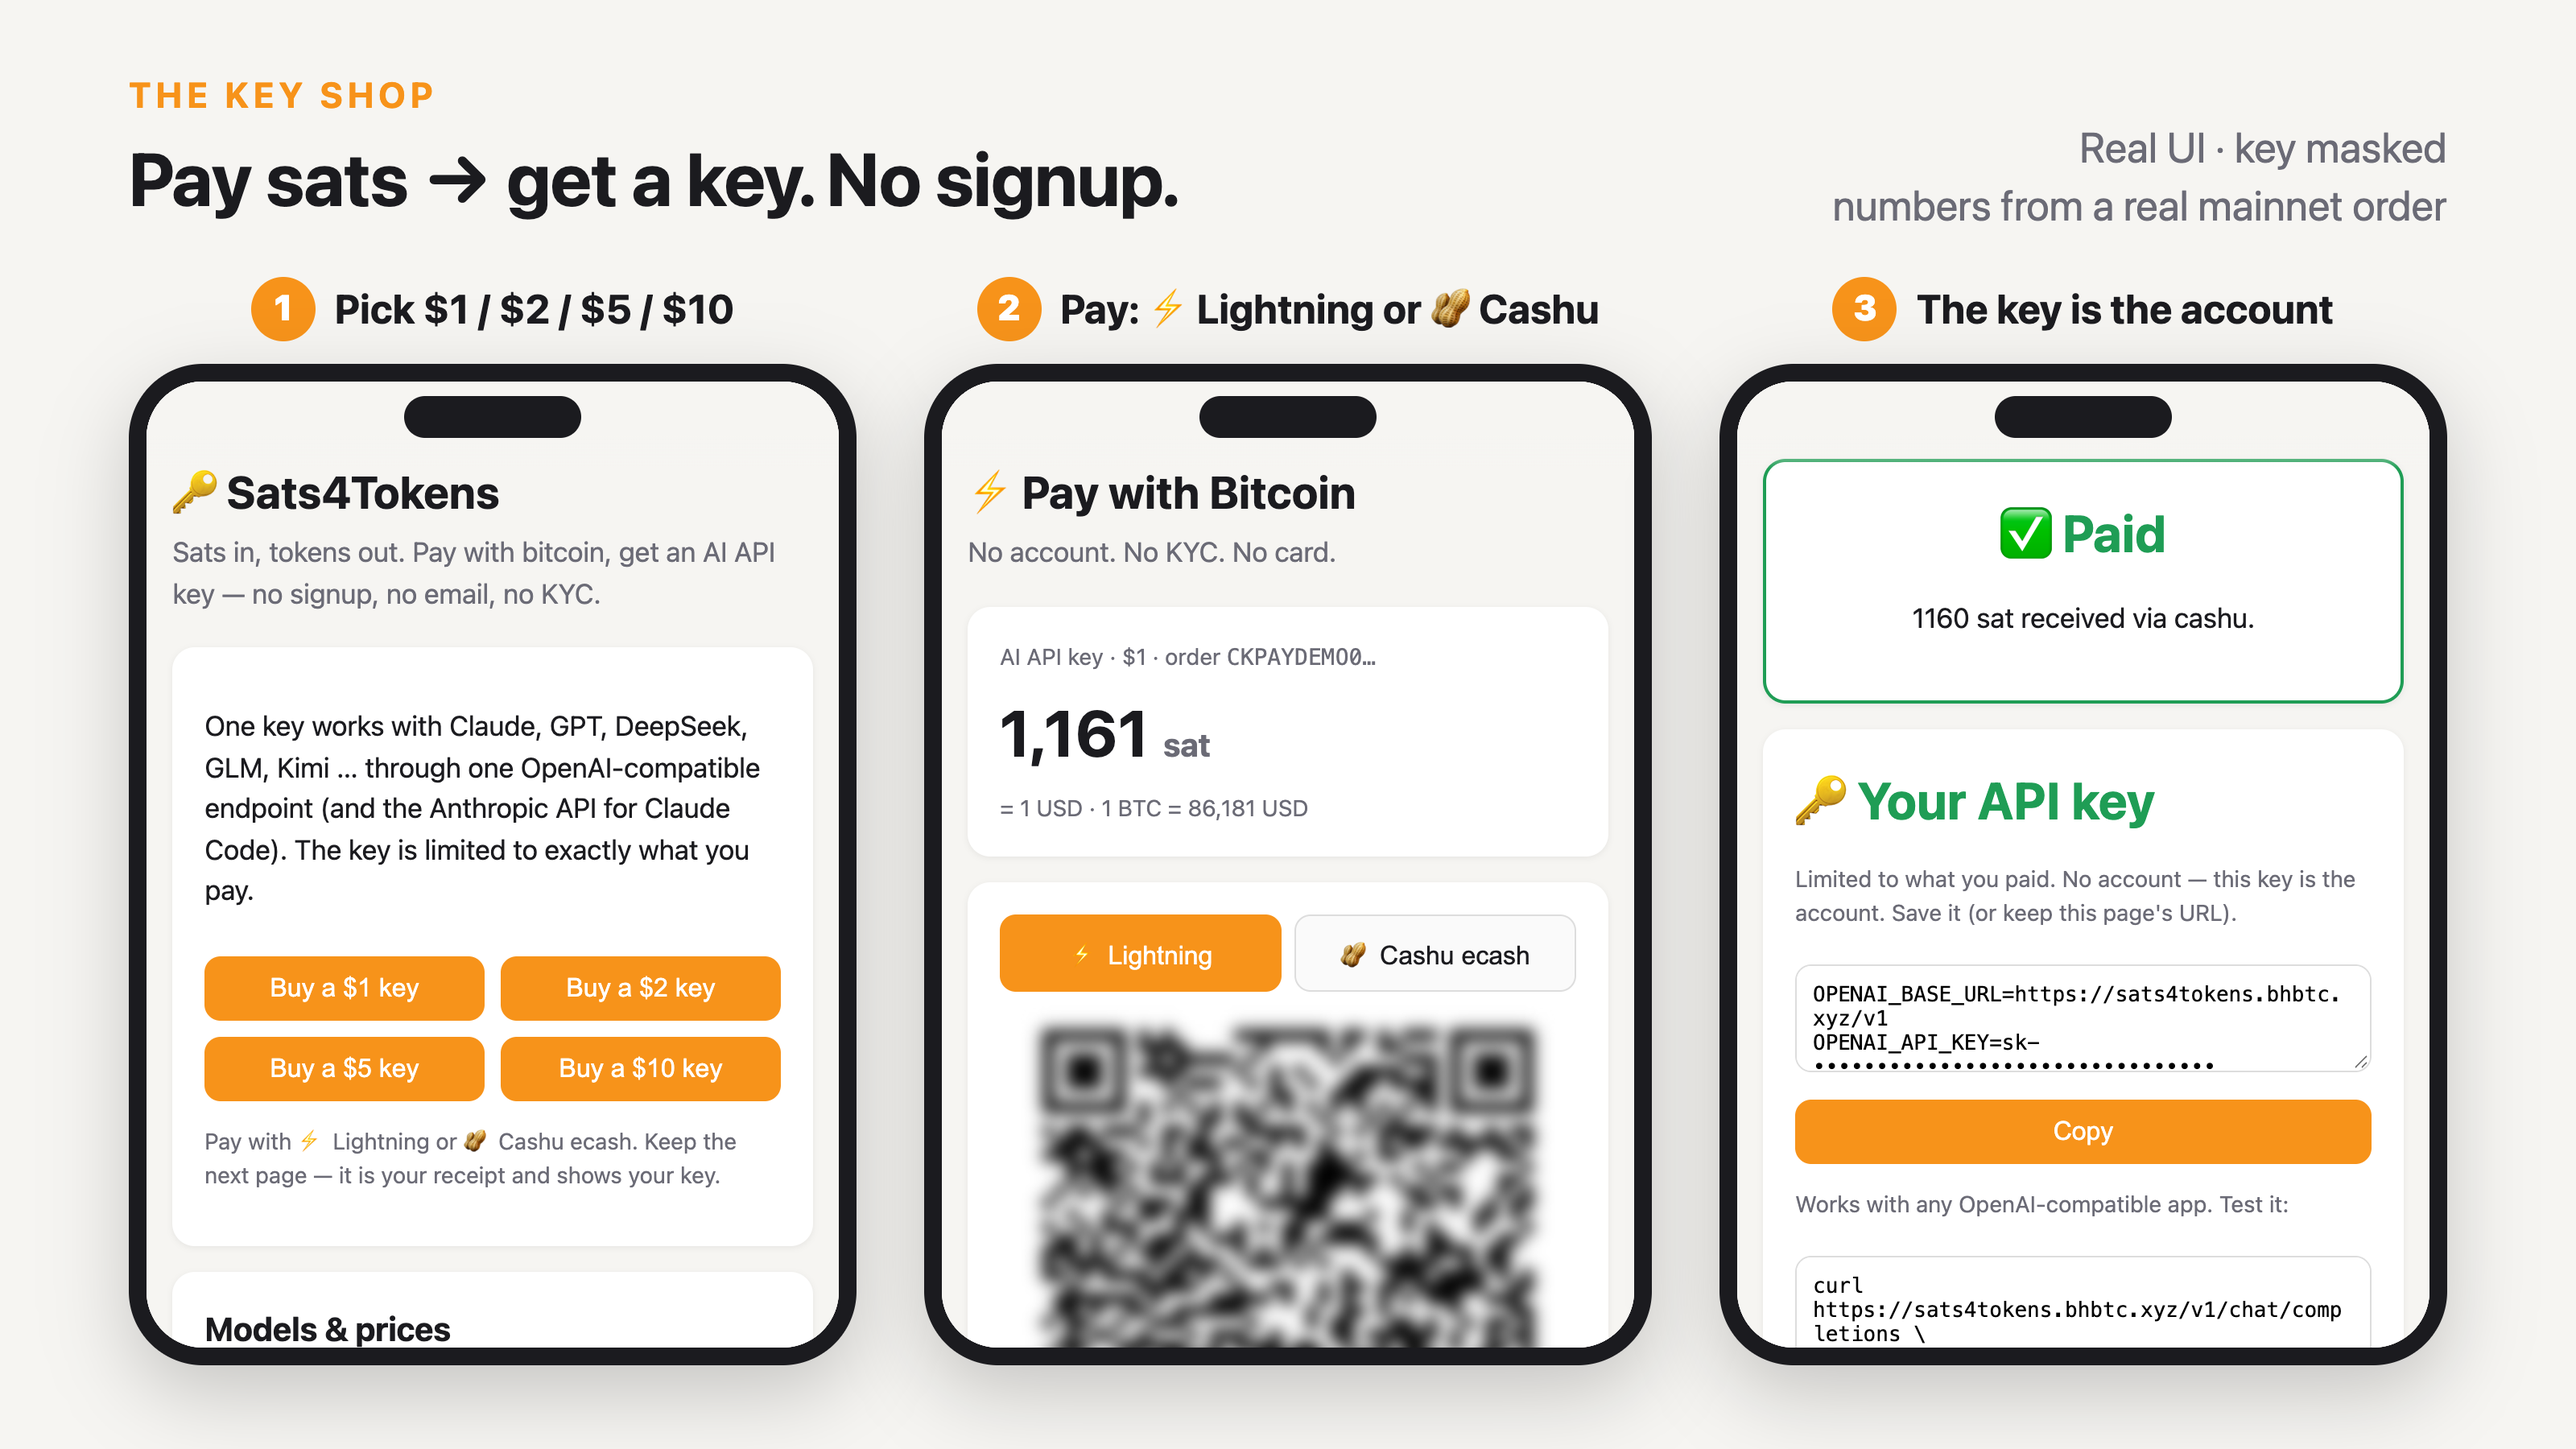
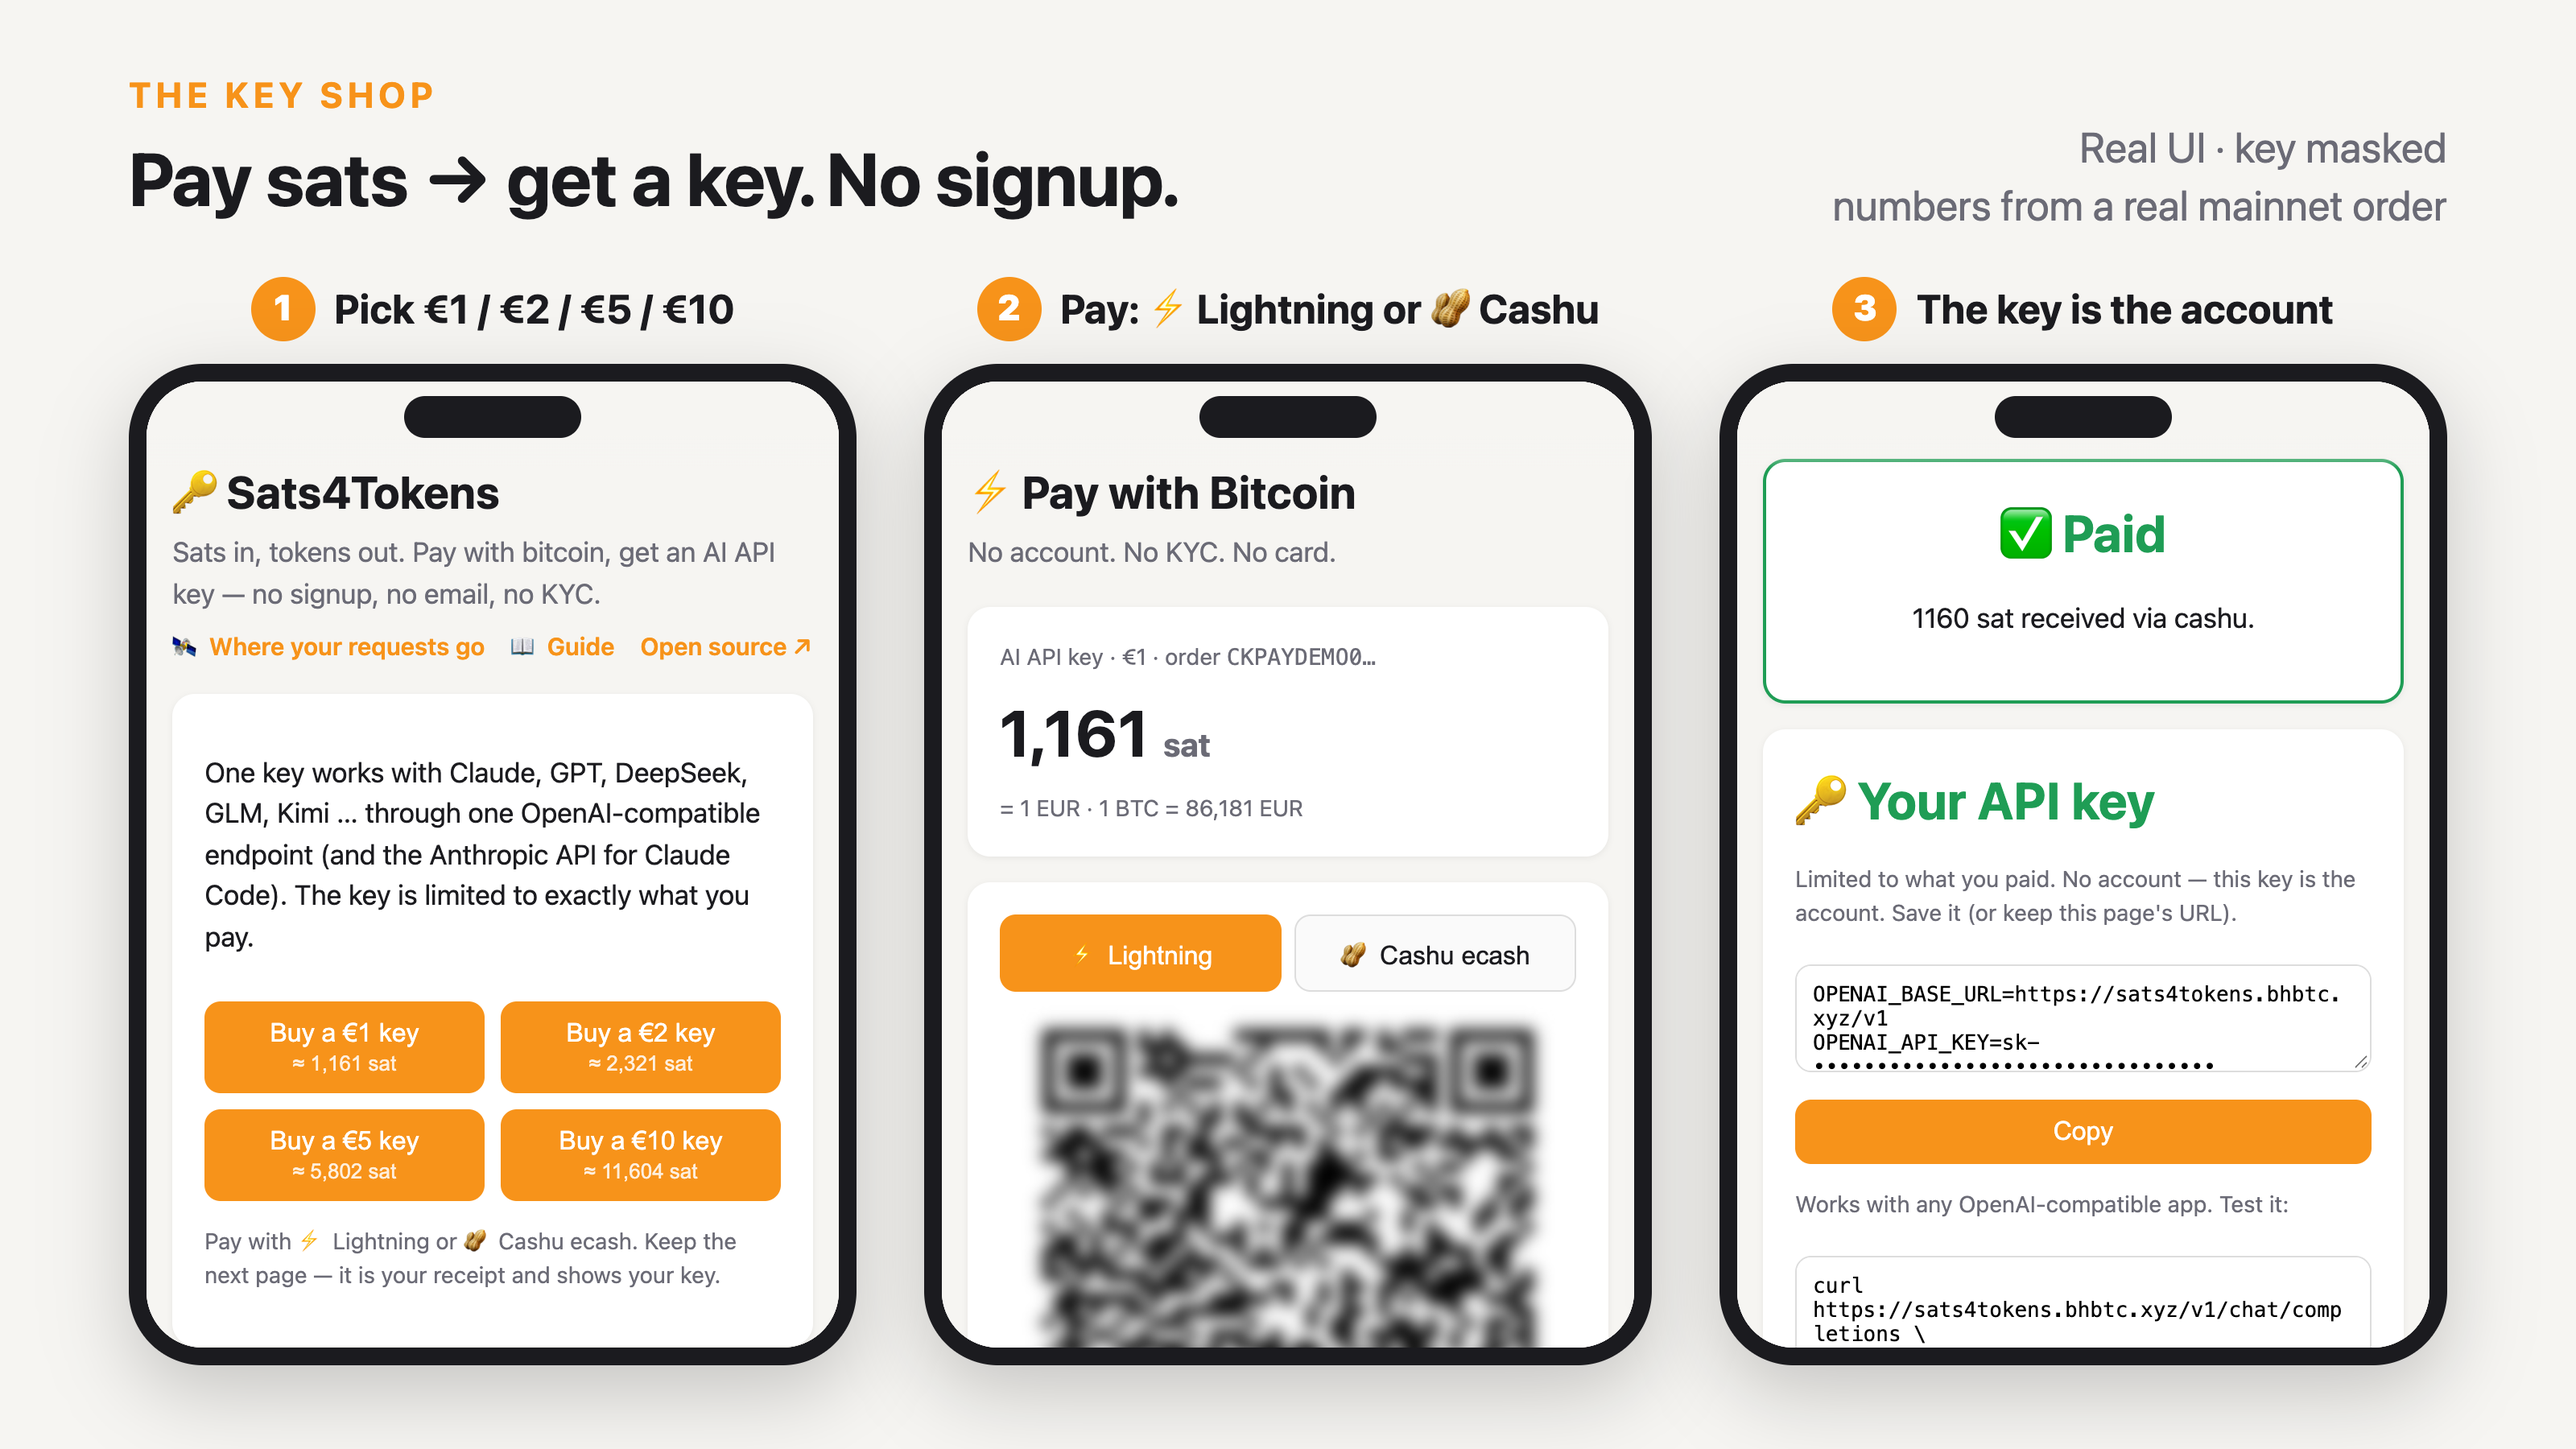
Re-shoot flow and key page images in EUR (mock orders)

diff --git a/docs/README.md b/docs/README.md
@@ -8,4 +8,4 @@
 | [Agent example](../examples/agent-buy-key.ts) | a script (no dependencies) that buys and pays for a key: `node examples/agent-buy-key.ts 1 [cashu-token]` |
 | [How it works](how-it-works.md) | order lifecycle, the ledger, exactly-once settlement and crash recovery |
 
-Also here: [slides.pdf](slides.pdf) (our bitcoin++ Berlin 2026 pitch; prices were in USD then) and `images/` (screenshots built from mock orders).
+Also here: [slides.pdf](slides.pdf) (our bitcoin++ Berlin 2026 pitch; prices were in USD then) and `images/` (screenshots built from mock orders; `2-flow.png` and `3-keypage.png` show today's EUR pages).
